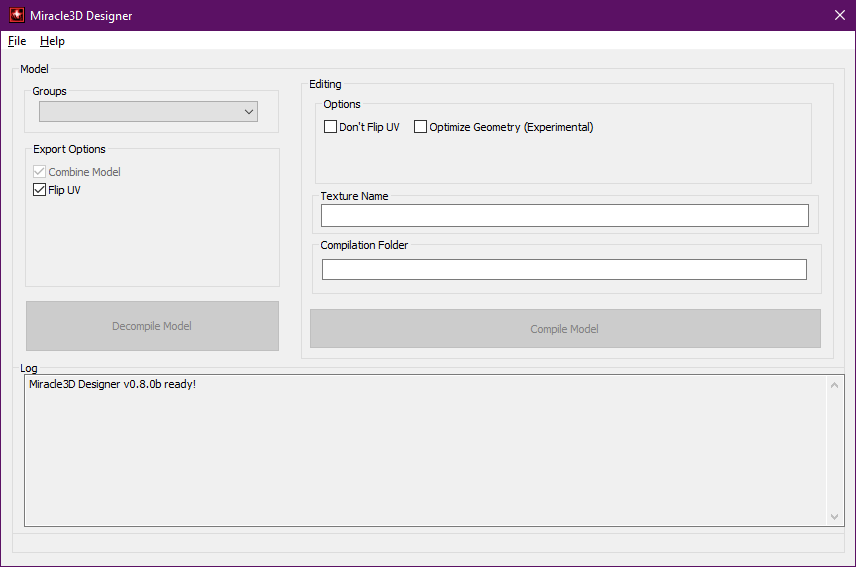
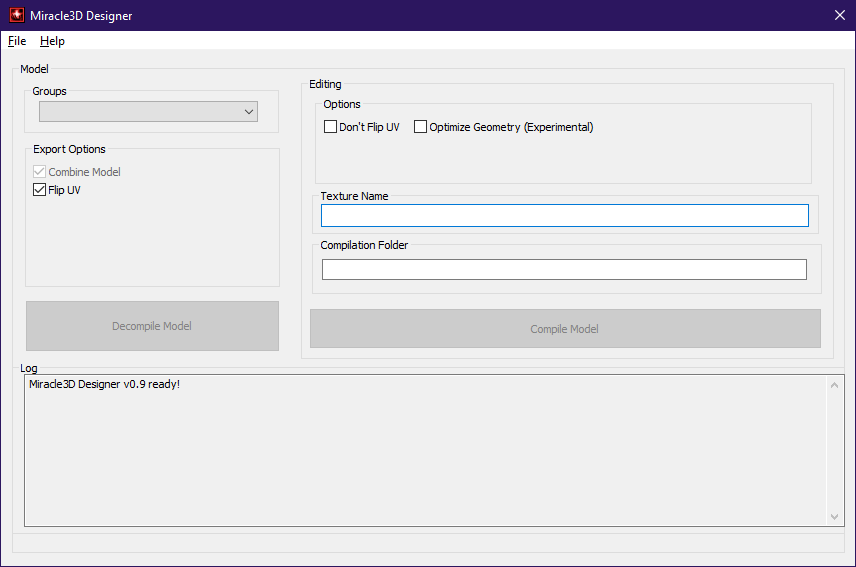
m3ddesigner update

Changed region(s): [[0.0, 0.0, 1.0, 0.06], [0.0, 0.9894, 1.0, 1.0], [0.1519, 0.6596, 0.243, 0.6896]]

diff --git a/_posts/tools/2020-12-05-miracle3d-designer.md b/_posts/tools/2020-12-05-miracle3d-designer.md
@@ -19,11 +19,10 @@ and GSM. They are used in Battle Mages and its addon Sign Of Darkness.
 - Supports Rigging Data
 - Experimental Model Optimiztaion feature
 - Decompile and Compile Models
+- Export Animations to SMD
 
 
 
-### What's not supported?
-Animation data is not supported, binary file is dumped.
 
 ### Usage
 
@@ -43,6 +42,9 @@ Decompilation will generate few files:
 - model.ini 		<- Configuration of the model
 - animationData.bin <- Binary animation data
 - name.smd 			<- Model
+
+As of 0.9, all animations are dumped to respective NAME.SMD files.
+Importing is not supported yet.
 
 
 You can only extract SMD files while decompiling.
